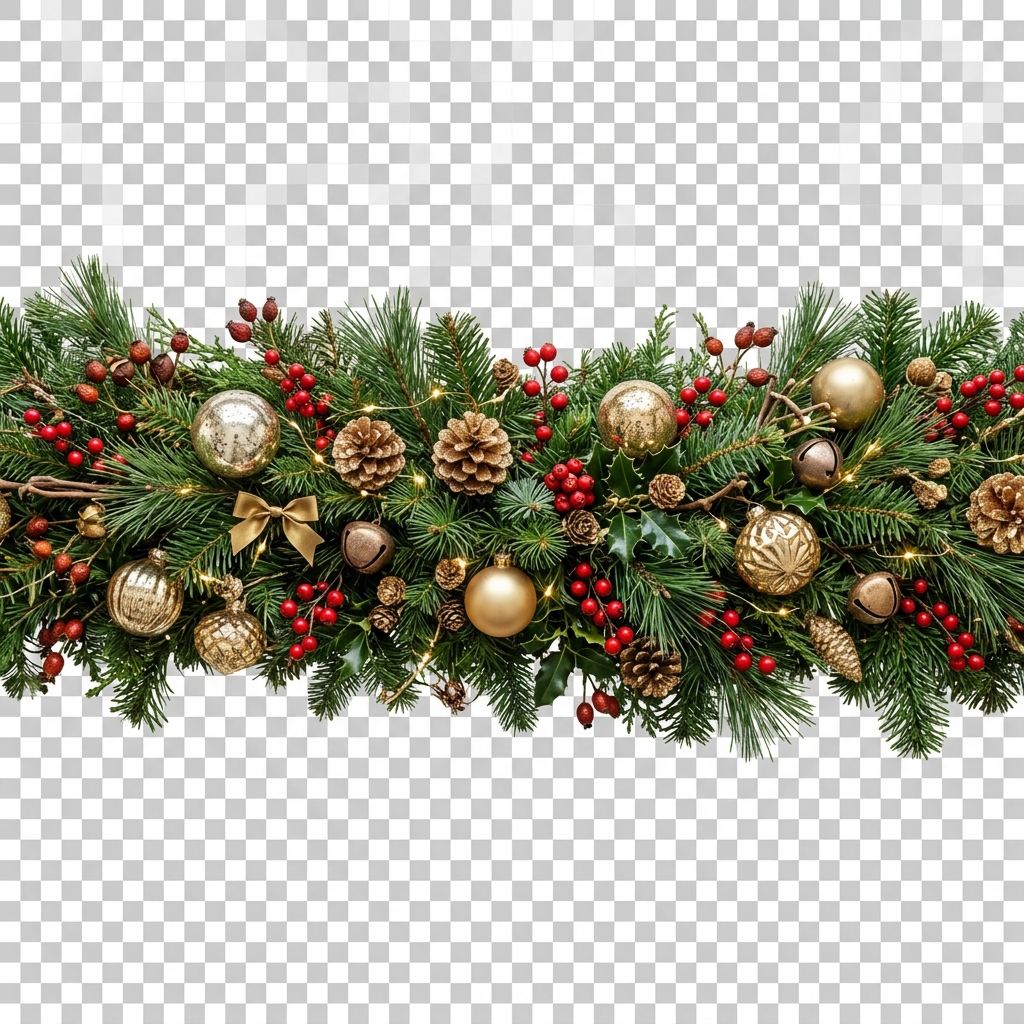
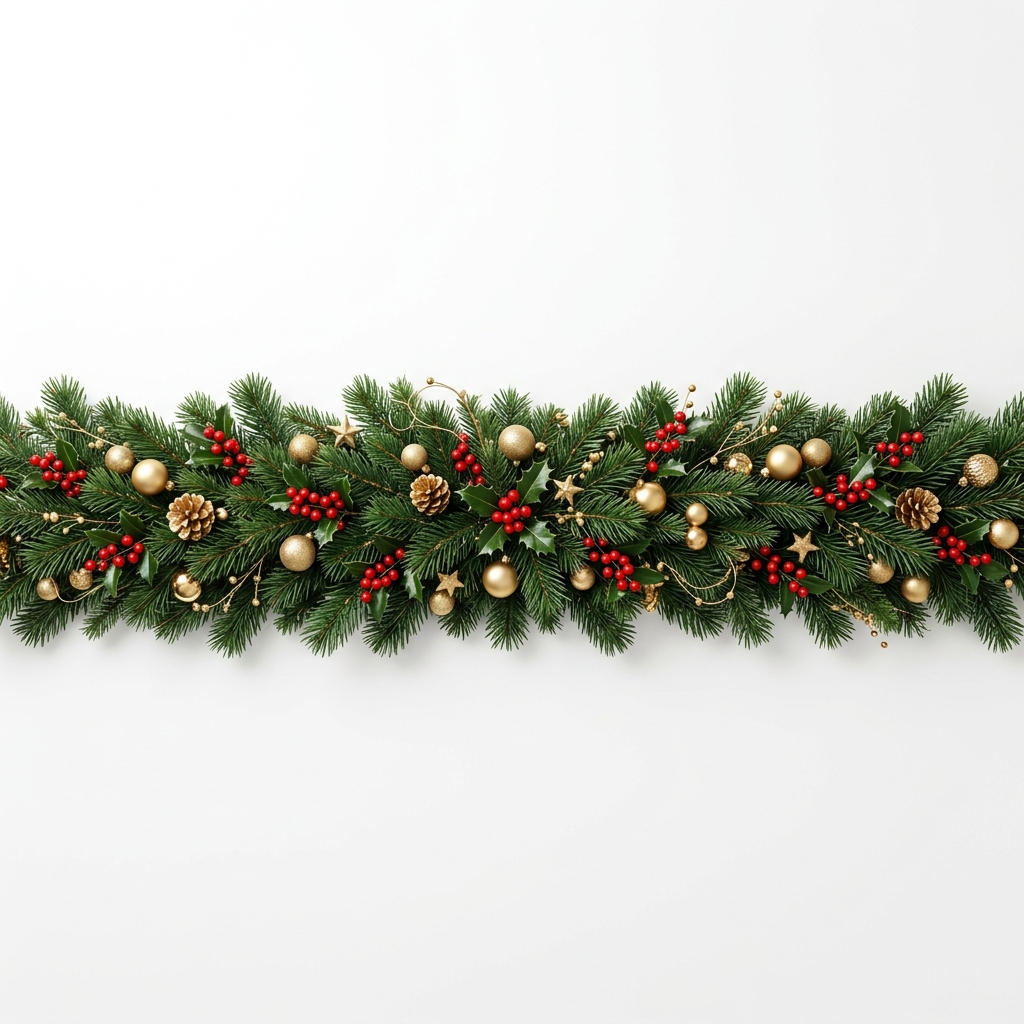
feat: Christmas feature added and scheduled to appear 1st of December the whole month.

diff --git a/components/christmas-decorations.tsx b/components/christmas-decorations.tsx
@@ -6,8 +6,8 @@ import { isChristmasTime } from "@/lib/utils-theme"
 import Image from "next/image"
 
 /**
- * Global Christmas Decorations Component
- * Heavily inspired by the user's reference image.
+ * Premium Christmas Decorations Overhaul
+ * Fixed transparency and layout for a high-end luxury feel.
  */
 export function ChristmasDecorations() {
   const [isActive, setIsActive] = useState(false)
@@ -20,63 +20,105 @@ export function ChristmasDecorations() {
 
   return (
     <>
-      {/* 1. Premium Top Garland */}
+      {/* 1. Luxurious Full-Width Top Garland */}
       <motion.div 
-        initial={{ y: -120, opacity: 0 }}
+        initial={{ y: -150, opacity: 0 }}
         animate={{ y: 0, opacity: 1 }}
-        transition={{ duration: 1.2, ease: [0.23, 1, 0.32, 1] }}
-        className="fixed top-0 left-0 right-0 z-[130] pointer-events-none w-full h-[12vh] md:h-[18vh]"
+        transition={{ duration: 1.5, ease: [0.23, 1, 0.32, 1] }}
+        className="fixed top-0 left-0 right-0 z-[130] pointer-events-none w-full select-none"
       >
-        <Image 
-          src="/decorations/christmas-garland-top.png"
-          alt="Navidad"
-          fill
-          className="object-contain object-top brightness-105"
-          priority
-        />
+        <div className="relative w-full h-[15vh] md:h-[20vh] mix-blend-multiply brightness-110 contrast-110">
+          <Image 
+            src="/decorations/christmas-garland-top.png"
+            alt="Corona de Navidad"
+            fill
+            className="object-contain object-top"
+            priority
+          />
+        </div>
       </motion.div>
 
-      {/* 2. Soft Snowfall */}
-      <div className="fixed inset-0 z-[5] pointer-events-none overflow-hidden opacity-40 select-none">
-        {[...Array(24)].map((_, i) => (
+      {/* 2. Advanced Multi-Layered Snowfall */}
+      <div className="fixed inset-0 z-[10] pointer-events-none overflow-hidden select-none">
+        
+        {/* Layer 1: Background small snow (fast) */}
+        {[...Array(30)].map((_, i) => (
           <motion.div
-            key={i}
-            className="absolute bg-white rounded-full blur-[2px]"
+            key={`s1-${i}`}
+            className="absolute bg-white/60 rounded-full blur-[1px]"
             initial={{ 
               top: "-5%",
               left: `${Math.random() * 100}%`,
-              scale: Math.random() * 0.4 + 0.1,
-              opacity: Math.random() * 0.6 + 0.2
+              scale: Math.random() * 0.2 + 0.1,
             }}
             animate={{ 
               top: "105%",
-              left: [`${Math.random() * 100}%`, `${(Math.random() * 100) + (i % 2 === 0 ? 2 : -2)}%`],
+              left: [`${Math.random() * 100}%`, `${(Math.random() * 100) + (i % 2 === 0 ? 5 : -5)}%`],
             }}
             transition={{ 
-              duration: Math.random() * 15 + 10, 
+              duration: Math.random() * 8 + 10, 
+              repeat: Infinity, 
+              ease: "linear",
+              delay: Math.random() * 10
+            }}
+            style={{ width: "8px", height: "8px" }}
+          />
+        ))}
+
+        {/* Layer 2: Foreground large flakes (slow & blurry) */}
+        {[...Array(12)].map((_, i) => (
+          <motion.div
+            key={`s2-${i}`}
+            className="absolute bg-white/40 rounded-full blur-[4px]"
+            initial={{ 
+              top: "-10%",
+              left: `${Math.random() * 100}%`,
+              scale: Math.random() * 0.8 + 0.5,
+            }}
+            animate={{ 
+              top: "110%",
+              left: [`${Math.random() * 100}%`, `${(Math.random() * 100) + (i % 2 === 0 ? 15 : -15)}px`],
+            }}
+            transition={{ 
+              duration: Math.random() * 20 + 15, 
+              repeat: Infinity, 
+              ease: "linear",
+              delay: Math.random() * 15
+            }}
+            style={{ width: "20px", height: "20px" }}
+          />
+        ))}
+
+        {/* Layer 3: Gold Dust particles (twinkling) */}
+        {[...Array(15)].map((_, i) => (
+          <motion.div
+            key={`g1-${i}`}
+            className="absolute bg-primary/40 rounded-full blur-[0.5px]"
+            initial={{ 
+              top: "-5%",
+              left: `${Math.random() * 100}%`,
+              scale: Math.random() * 0.3 + 0.1,
+              opacity: 0,
+            }}
+            animate={{ 
+              top: "105%",
+              opacity: [0, 1, 0, 1, 0],
+              left: [`${Math.random() * 100}%`, `${(Math.random() * 100) + (i % 2 === 0 ? 10 : -10)}%`],
+            }}
+            transition={{ 
+              duration: Math.random() * 12 + 10, 
               repeat: Infinity, 
               ease: "linear",
               delay: Math.random() * 20
             }}
-            style={{ width: "12px", height: "12px" }}
+            style={{ width: "6px", height: "6px" }}
           />
         ))}
       </div>
 
-      {/* 3. Subtle background Bokeh (warm gold) */}
-      <div className="fixed inset-0 z-[4] pointer-events-none overflow-hidden opacity-10 select-none">
-        {[...Array(5)].map((_, i) => (
-          <div
-            key={i}
-            className="absolute rounded-full bg-primary/20 blur-[100px]"
-            style={{
-              width: `${Math.random() * 400 + 200}px`,
-              height: `${Math.random() * 400 + 200}px`,
-              top: `${Math.random() * 100}%`,
-              left: `${Math.random() * 100}%`,
-            }}
-          />
-        ))}
+      {/* 4. Ambient Warmth */}
+      <div className="fixed inset-0 z-[2] pointer-events-none overflow-hidden opacity-[0.03] select-none scale-110">
+        <div className="absolute inset-0 bg-gradient-radial from-primary/30 to-transparent" />
       </div>
     </>
   )

diff --git a/components/floating-navbar.tsx b/components/floating-navbar.tsx
@@ -193,13 +193,13 @@ export function FloatingNavbar() {
                 <AnimatePresence>
                   {isChristmas && (
                     <motion.div
-                      initial={{ scale: 0, opacity: 0, rotate: -20 }}
-                      animate={{ scale: 1, opacity: 1, rotate: 0 }}
-                      className="absolute -top-1 -right-3 size-8 md:size-10 z-20 pointer-events-none"
+                      initial={{ scale: 0, opacity: 0, rotate: -30 }}
+                      animate={{ scale: 1, opacity: 1, rotate: -5 }}
+                      className="absolute -top-3 -right-6 size-10 md:size-14 z-20 pointer-events-none mix-blend-multiply brightness-110 contrast-110"
                     >
                       <Image 
                         src="/decorations/christmas-bow.png" 
-                        alt="Christmas Bow"
+                        alt="Lazo"
                         fill
                         className="object-contain"
                       />
@@ -247,7 +247,7 @@ export function FloatingNavbar() {
 
             {/* Mobile Toggle */}
             <button
-              className="xl:hidden p-3 rounded-2xl bg-primary/10 text-primary hover:bg-primary/20 transition-all active:scale-95 group relative border border-primary/20"
+              className="xl:hidden p-3 rounded-2xl bg-black text-white hover:bg-black/90 transition-all active:scale-95 group relative shadow-lg shadow-black/10 border border-white/10"
               onClick={() => setIsOpen(!isOpen)}
               aria-label="Toggle menu"
             >
@@ -281,7 +281,7 @@ export function FloatingNavbar() {
             className="fixed inset-0 z-[110] xl:hidden"
           >
             <motion.div
-              className="absolute inset-0 bg-background/40 backdrop-blur-3xl"
+              className="absolute inset-0 bg-black/40 backdrop-blur-3xl"
               onClick={() => setIsOpen(false)}
             />
 
@@ -290,7 +290,7 @@ export function FloatingNavbar() {
               animate={{ x: 0 }}
               exit={{ x: "100%" }}
               transition={{ type: "spring", damping: 30, stiffness: 200 }}
-              className="absolute right-0 top-0 bottom-0 w-[85%] max-w-sm bg-card/95 border-l border-white/10 shadow-2xl p-10 pt-32 flex flex-col"
+              className="absolute right-0 top-0 bottom-0 w-[85%] max-w-sm bg-black/98 border-l border-white/10 shadow-2xl p-10 pt-32 flex flex-col"
             >
               <div className="flex flex-col gap-2 overflow-y-auto flex-1">
                 {navLinks.map((link, i) => (
@@ -306,7 +306,7 @@ export function FloatingNavbar() {
                         handleNavClick(e, link.href)
                         setIsOpen(false)
                       }}
-                      className="text-3xl font-black text-foreground/90 hover:text-primary transition-all flex items-center gap-4 py-4 group"
+                      className="text-3xl font-black text-white px-2 hover:text-primary transition-all flex items-center gap-4 py-4 group"
                     >
                       <span className="text-[10px] font-mono text-primary/40 pt-1">0{i + 1}</span>
                       {link.label}
@@ -316,16 +316,18 @@ export function FloatingNavbar() {
               </div>
 
               <div className="mt-10 pt-10 border-t border-white/10 space-y-10">
-                <div className="flex items-center justify-between px-2">
+                <div className="flex items-center justify-between px-2 text-white">
                   <span className="text-[10px] font-black text-muted-foreground uppercase tracking-[0.2em]">Idioma</span>
-                  <LanguageSelector dir="up" />
+                  <div className="scale-90 origin-right">
+                    <LanguageSelector dir="up" />
+                  </div>
                 </div>
                 <button
                   onClick={(e) => {
                     handleNavClick(e, "/#contacto")
                     setIsOpen(false)
                   }}
-                  className="w-full py-6 bg-primary text-primary-foreground font-black rounded-3xl shadow-xl shadow-primary/20 active:scale-95 transition-all text-xs uppercase tracking-[0.2em]"
+                  className="w-full py-6 bg-white text-black font-black rounded-3xl shadow-xl active:scale-95 transition-all text-xs uppercase tracking-[0.2em]"
                 >
                   {t.nav.bookAppointment}
                 </button>

diff --git a/components/intro-hero.tsx b/components/intro-hero.tsx
@@ -210,13 +210,13 @@ export function IntroHero() {
                       initial={{ opacity: 0, scale: 0.8 }}
                       animate={{ opacity: 1, scale: 1 }}
                       transition={{ delay: 0.8 }}
-                      className="absolute -top-4 -right-4 size-32 z-30 pointer-events-none rotate-90"
+                      className="absolute -top-10 -right-10 size-48 z-30 pointer-events-none mix-blend-multiply brightness-110"
                     >
                       <Image 
                         src="/decorations/christmas-corner.png" 
                         alt="Decoración"
                         fill
-                        className="object-contain"
+                        className="object-contain rotate-180"
                       />
                     </motion.div>
                     
@@ -225,7 +225,7 @@ export function IntroHero() {
                       initial={{ opacity: 0, scale: 0.8 }}
                       animate={{ opacity: 1, scale: 1 }}
                       transition={{ delay: 1 }}
-                      className="absolute -bottom-6 -left-6 size-40 z-30 pointer-events-none rotate-[-90deg] scale-x-[-1]"
+                      className="absolute -bottom-10 -left-10 size-48 z-30 pointer-events-none mix-blend-multiply brightness-110"
                     >
                       <Image 
                         src="/decorations/christmas-corner.png" 

diff --git a/components/ui/luxury-gold-button.tsx b/components/ui/luxury-gold-button.tsx
@@ -81,11 +81,11 @@ export function LuxuryGoldButton() {
           <motion.div
             initial={{ scale: 0, opacity: 0, rotate: -20 }}
             animate={{ scale: 1, opacity: 1, rotate: -15 }}
-            className="absolute -top-4 -right-4 size-14 z-[20] pointer-events-none drop-shadow-lg"
+            className="absolute -top-6 -right-6 size-16 z-[20] pointer-events-none mix-blend-multiply brightness-110"
           >
             <Image 
               src="/decorations/christmas-bow.png" 
-              alt="Christmas Bow"
+              alt="Lazo"
               fill
               className="object-contain"
             />
